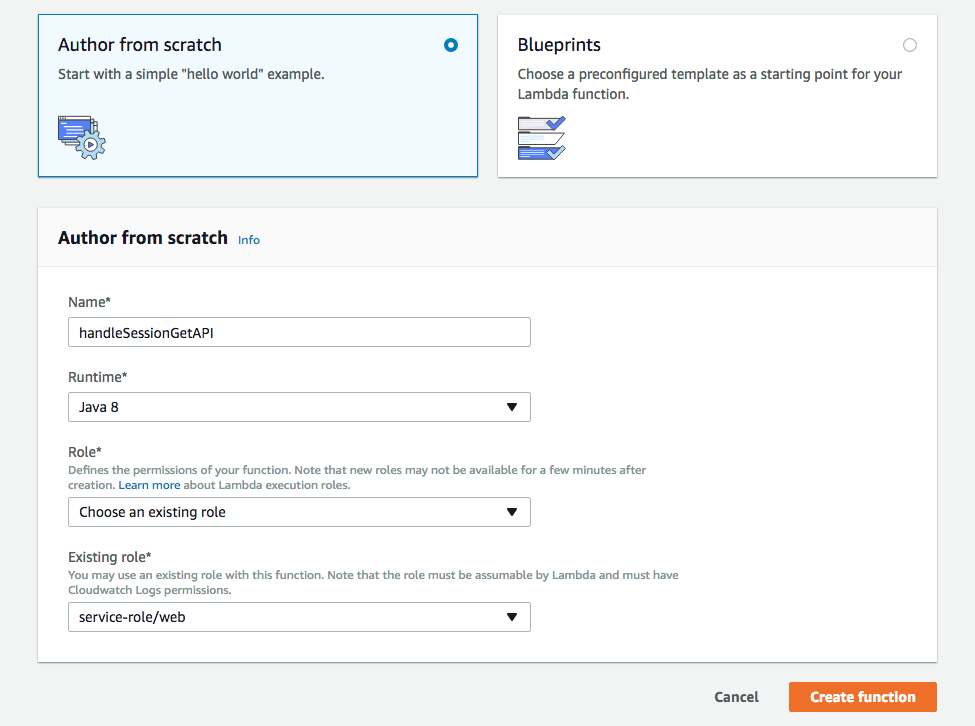
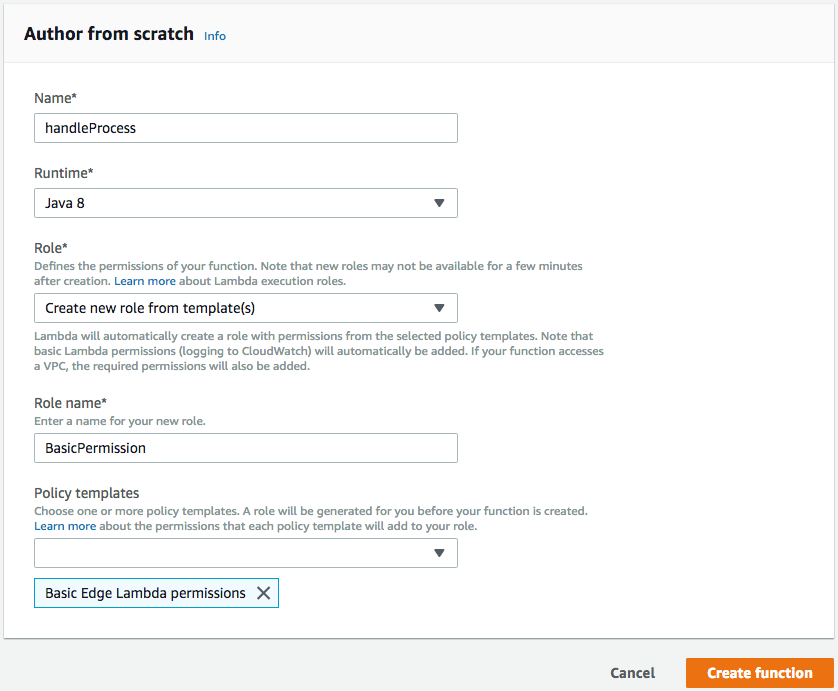
Updated lambda doc. Fixed logging

diff --git a/docs/index.html b/docs/index.html
@@ -2319,7 +2319,17 @@ compiling project (Because you have installed Java 1.9). You can specifically JD
 <p><strong>Runtime</strong> : Java 8</p>
 </li>
 <li>
-<p><strong>Role</strong>* : We have already created role. Please create role if you don&#8217;t have one</p>
+<p><strong>Role</strong> :  Create role from template.</p>
+<div class="ulist">
+<ul>
+<li>
+<p><strong>Role Name</strong> : BasicPermission</p>
+</li>
+<li>
+<p><strong>Policy templates</strong> : Basic Edge Lambda permissions</p>
+</li>
+</ul>
+</div>
 </li>
 </ul>
 </div>
@@ -2346,7 +2356,7 @@ and class name. No handle)</p>
 <div class="ulist">
 <ul>
 <li>
-<p><strong>JAVA_TOOL_OPTIONS</strong>  :  <em>-Dservice=/in/erail/tutorial/SessionGetService -Dglue.layers=./lib/api-framework-1.0-SNAPSHOT-common-config.zip,./lib/tutorial-simple-get-api-1.0-SNAPSHOT-common-config.zip,./lib/api-framework-amazon-lambda-1.0-SNAPSHOT-common-config.zip -Dvertx.cacheDirBase=/tmp/vertx-cache -Dvertx.logger-delegate-factory-class-name=io.vertx.core.logging.Log4j2LogDelegateFactory -Dlog4j.configurationFile=./log4j.xml</em></p>
+<p><strong>JAVA_TOOL_OPTIONS</strong>  :  <em>-Dservice=/in/erail/tutorial/SessionGetService -Dglue.layers=./lib/api-framework-1.0-SNAPSHOT-common-config.zip,./lib/tutorial-simple-get-api-1.0-SNAPSHOT-common-config.zip,./lib/api-framework-amazon-lambda-1.0-SNAPSHOT-common-config.zip -Dvertx.cacheDirBase=/tmp/vertx-cache -Dvertx.logger-delegate-factory-class-name=io.vertx.core.logging.Log4j2LogDelegateFactory -Dlog4j.configurationFile=./log4j2.xml</em></p>
 <table class="tableblock frame-all grid-all spread">
 <colgroup>
 <col style="width: 25%;">
@@ -2390,7 +2400,7 @@ and class name. No handle)</p>
 <tr>
 <td class="tableblock halign-left valign-top"><p class="tableblock">-Dlog4j.configurationFile</p></td>
 <td class="tableblock halign-left valign-top"></td>
-<td class="tableblock halign-left valign-top"><p class="tableblock">./log4j.xml</p></td>
+<td class="tableblock halign-left valign-top"><p class="tableblock">./log4j2.xml</p></td>
 <td class="tableblock halign-left valign-top"><p class="tableblock">Standard Vertx option</p></td>
 </tr>
 </tbody>
